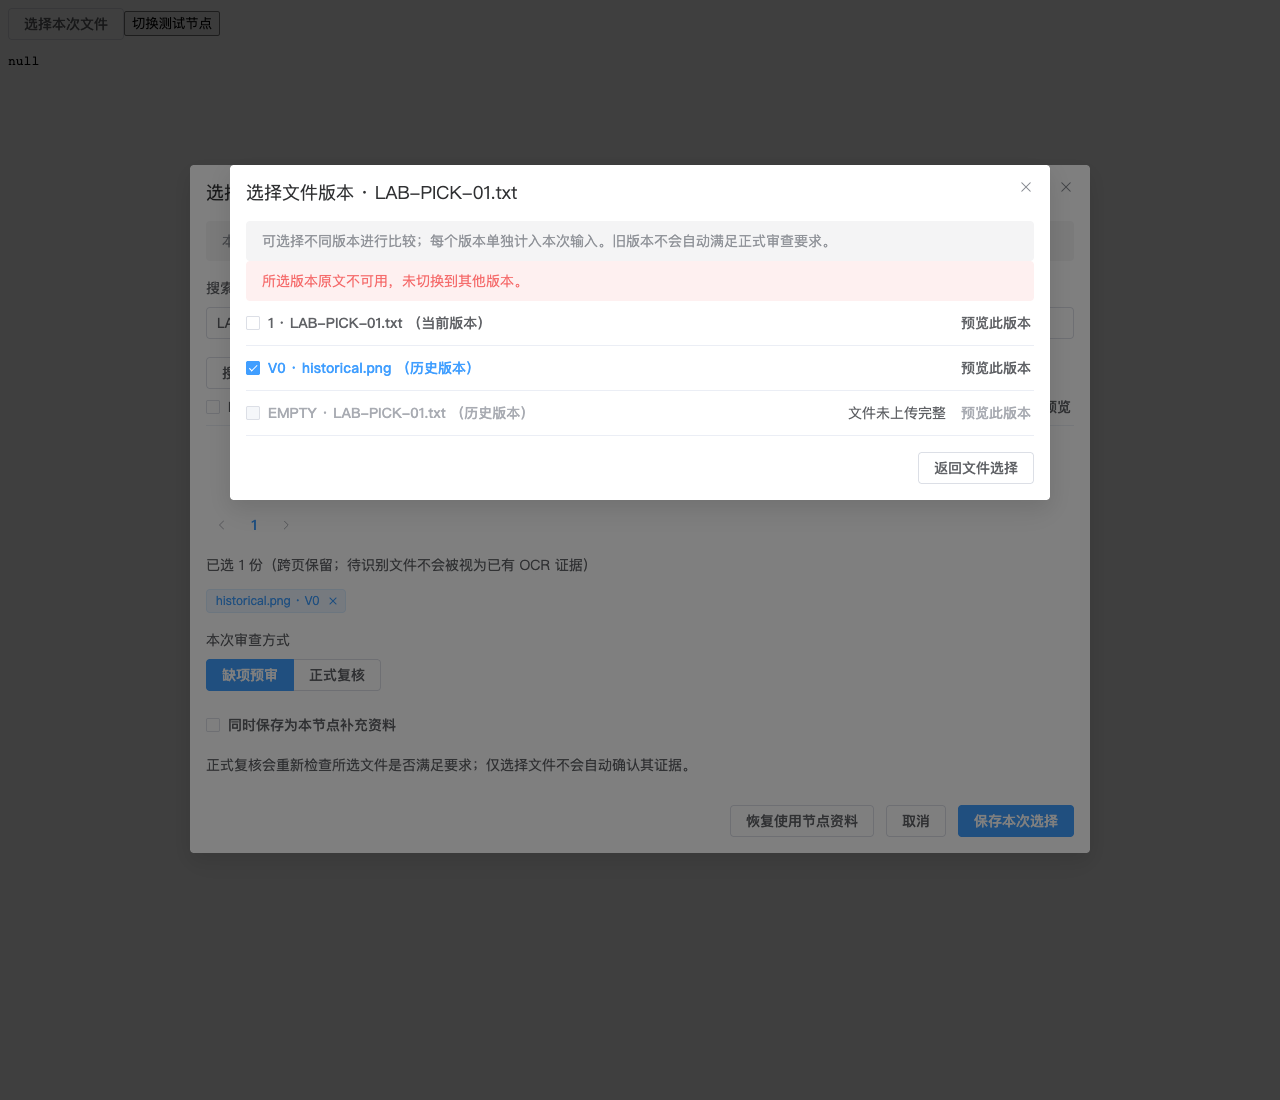
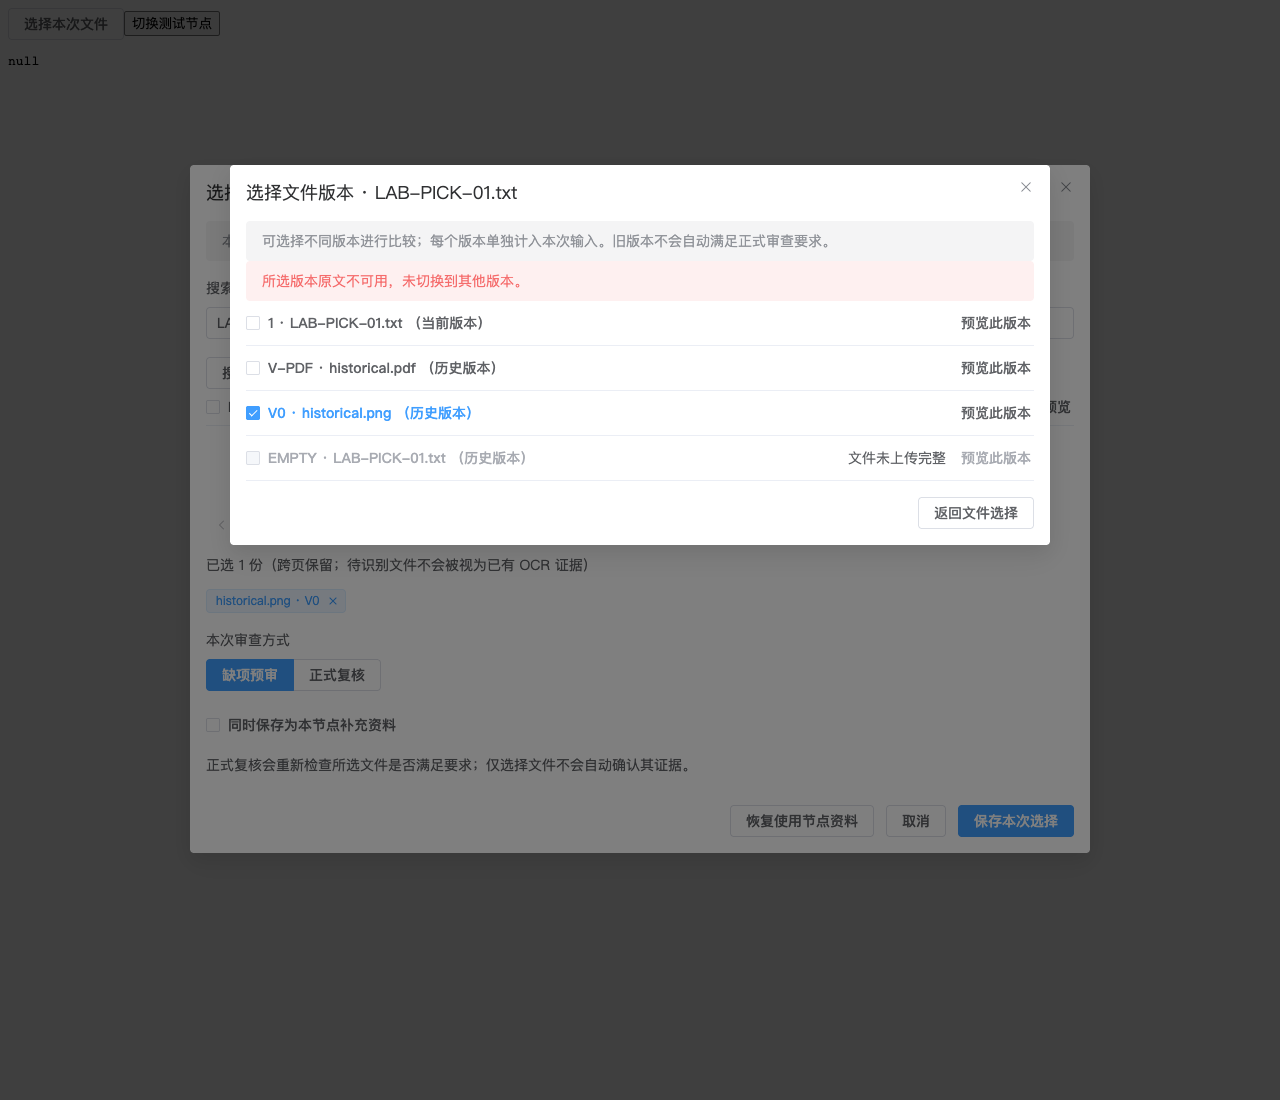
feat(ui): improve narrow version picker and verify historical PDF rendering

Changed region(s): [[0.1562, 0.3709, 0.8438, 0.4945], [0.1875, 0.3091, 0.375, 0.34]]

diff --git a/frontend/src/views/AIReviewB/ReviewDocumentVersions.vue b/frontend/src/views/AIReviewB/ReviewDocumentVersions.vue
@@ -13,12 +13,14 @@ const props = defineProps<{
 const emit = defineEmits<{ close: []; toggle: [version: DocumentVersion, checked: boolean] }>()
 const versions = ref<DocumentVersion[]>([])
 const loading = ref(false)
+const previewingId = ref('')
 const error = ref('')
 const preview = ref<{ url: string; type: string; label: string } | null>(null)
 let generation = 0
 let previewAttempt = 0
 const clearPreview = () => {
   previewAttempt++
+  previewingId.value = ''
   if (preview.value) URL.revokeObjectURL(preview.value.url)
   preview.value = null
 }
@@ -32,6 +34,7 @@ const previewVersion = async (version: DocumentVersion) => {
   const context = generation
   const attempt = previewAttempt
   error.value = ''
+  previewingId.value = version.id
   try {
     const blob = await getReviewVersionOriginal(props.projectId, props.documentId, version.id)
     if (context !== generation || attempt !== previewAttempt) return
@@ -47,6 +50,8 @@ const previewVersion = async (version: DocumentVersion) => {
   } catch {
     if (context === generation && attempt === previewAttempt)
       error.value = '所选版本原文不可用，未切换到其他版本。'
+  } finally {
+    if (context === generation && attempt === previewAttempt) previewingId.value = ''
   }
 }
 watch(
@@ -102,7 +107,11 @@ onBeforeUnmount(() => {
           {{ version.isCurrent ? '（当前版本）' : '（历史版本）' }}
         </ElCheckbox>
         <span v-if="!version.hash">文件未上传完整</span>
-        <ElButton link :disabled="!version.hash" @click="previewVersion(version)"
+        <ElButton
+          link
+          :loading="previewingId === version.id"
+          :disabled="!version.hash"
+          @click="previewVersion(version)"
           >预览此版本</ElButton
         >
       </div>
@@ -160,5 +169,23 @@ onBeforeUnmount(() => {
   max-width: 100%;
   max-height: 65vh;
   object-fit: contain;
+}
+
+@media (width <= 600px) {
+  .version-row {
+    display: grid;
+    grid-template-columns: 1fr auto;
+    gap: 4px 12px;
+  }
+
+  .version-row .el-checkbox {
+    min-height: 44px;
+    grid-column: 1 / -1;
+  }
+
+  .version-row .el-button {
+    min-height: 44px;
+    grid-column: 2;
+  }
 }
 </style>

diff --git a/frontend/e2e/lab-rules/backend.py b/frontend/e2e/lab-rules/backend.py
@@ -41,7 +41,17 @@ originals = tempfile.TemporaryDirectory(prefix="aicheck-version-browser-")
 routes.WORKSPACE_ROOT = Path(originals.name)
 (Path(originals.name) / "historical.png").write_bytes(base64.b64decode(
[1 lines of base64/hex data omitted]
+import fitz
+with fitz.open() as pdf:
+    for page_number in (1, 2):
+        page = pdf.new_page(width=420, height=300)
+        page.insert_text((30, 70), f"HISTORICAL PDF - PAGE {page_number}", fontsize=20)
+        page.insert_text((30, 115), "Version V-PDF: fixed review input", fontsize=14)
+    pdf.save(Path(originals.name) / "historical.pdf")
 repo.state["versions"].extend([
+    {"id": "VER-PICK-1-PDF", "documentId": "DOC-PICK-1", "tenantId": "TENANT-DEFAULT", "versionNo": "V-PDF",
+     "fileName": "historical.pdf", "fileType": "application/pdf", "hash": "historical-pdf-fixture", "isCurrent": False,
+     "storageKey": "local://historical.pdf"},
     {"id": "VER-PICK-1-OLD", "documentId": "DOC-PICK-1", "tenantId": "TENANT-DEFAULT", "versionNo": "V0",
      "fileName": "historical.png", "fileType": "image/png", "hash": "historical-fixture", "isCurrent": False,
      "storageKey": "local://historical.png"},

diff --git a/docs/优化计划-焊接节点.md b/docs/优化计划-焊接节点.md
@@ -955,3 +955,12 @@ W1 之外已顺手完成：P9 R2 的 opinionSource 字段；F1 的 AI_FEEDBACK_R
 - 實際 API 回歸 5 passed，包括目前版本已上傳但所選舊版未上傳、dangling currentVersionId、版本租戶不符，以及合法舊版從請求進入審查和證據快照。原明確選取夾具補上傳完成 hash，未放寬產品校驗。
 - 文件範圍／證據快照／manifest／分片／組織隔離／巨石回歸 184 passed；Ruff 289 / 289、diff check 通過。本批未重跑完整後端或瀏覽器。
 - hash 是沿用系統既有上傳完成標記，不代表本批逐次讀取物件儲存驗證檔案仍存在；完整歷史重放、PDF／手機／登入工作台及其他工作包仍待完成。無生產部署。
+
+
+### 2026-09-09 歷史 PDF 與窄螢幕驗收
+
+- 本地夾具新增具兩頁識別文字的實際歷史 PDF。Chrome 真實 API／Blob 請求取得 PDF，內建閱讀器載入 docLength=2；已檢視 1280px 與 390px 的頁面內容截圖，確實顯示歷史版本兩頁，不只檢查 iframe 存在。
+- 新腳本 check-version-pdf-mobile.mjs 在兩種寬度驗證版本選取、PDF 原文格式、兩頁載入、預覽對話框界限、返回與保存固定版本；版本列無水平溢出。既有歷史圖片／原文不可用／選取保留腳本亦通過。
+- 窄螢幕原先狀態文字擠壓檔名，現將版本標籤獨立一列、狀態與預覽動作放下一列，勾選和預覽操作最小高度 44px。原文請求增加載入指示，過期回應不清除新請求的載入狀態。
+- 全量 vue-tsc、修改檔 ESLint／Stylelint、diff check 通過。截圖 version-list-390.png、version-pdf-390.png、version-pdf-1280.png 已檢視；測試橋接沿用隔離記憶體資料與临時原文，服務已停止。
+- 此為桌面 Chrome 的 390px 視窗模擬，不代表實體手機、Safari 或完整登入工作台驗收；大型檔案、頁碼範圍、歷史重放與其餘工作包仍待完成。本批未重跑完整後端或前端全部單元測試，無生產操作。

diff --git a/docs/lab/README.md b/docs/lab/README.md
@@ -410,3 +410,12 @@ cd backend
 - 實際 API 回歸 5 passed，包括目前版本已上傳但所選舊版未上傳、dangling currentVersionId、版本租戶不符，以及合法舊版從請求進入審查和證據快照。原明確選取夾具補上傳完成 hash，未放寬產品校驗。
 - 文件範圍／證據快照／manifest／分片／組織隔離／巨石回歸 184 passed；Ruff 289 / 289、diff check 通過。本批未重跑完整後端或瀏覽器。
 - hash 是沿用系統既有上傳完成標記，不代表本批逐次讀取物件儲存驗證檔案仍存在；完整歷史重放、PDF／手機／登入工作台及其他工作包仍待完成。無生產部署。
+
+
+### 2026-09-09 歷史 PDF 與窄螢幕驗收
+
+- 本地夾具新增具兩頁識別文字的實際歷史 PDF。Chrome 真實 API／Blob 請求取得 PDF，內建閱讀器載入 docLength=2；已檢視 1280px 與 390px 的頁面內容截圖，確實顯示歷史版本兩頁，不只檢查 iframe 存在。
+- 新腳本 check-version-pdf-mobile.mjs 在兩種寬度驗證版本選取、PDF 原文格式、兩頁載入、預覽對話框界限、返回與保存固定版本；版本列無水平溢出。既有歷史圖片／原文不可用／選取保留腳本亦通過。
+- 窄螢幕原先狀態文字擠壓檔名，現將版本標籤獨立一列、狀態與預覽動作放下一列，勾選和預覽操作最小高度 44px。原文請求增加載入指示，過期回應不清除新請求的載入狀態。
+- 全量 vue-tsc、修改檔 ESLint／Stylelint、diff check 通過。截圖 version-list-390.png、version-pdf-390.png、version-pdf-1280.png 已檢視；測試橋接沿用隔離記憶體資料與临時原文，服務已停止。
+- 此為桌面 Chrome 的 390px 視窗模擬，不代表實體手機、Safari 或完整登入工作台驗收；大型檔案、頁碼範圍、歷史重放與其餘工作包仍待完成。本批未重跑完整後端或前端全部單元測試，無生產操作。

diff --git a/frontend/e2e/lab-rules/README.md b/frontend/e2e/lab-rules/README.md
@@ -42,3 +42,5 @@ CSS regression probe, not a logged-in workbench acceptance test.
 掛載腳本亦驗證整頁重新載入後重新選取相同版本，使用新操作編號仍沿用原掛載 ID；不代表多服務程序並行寫入驗收。
 
 歷史版本驗收：`node e2e/lab-rules/check-document-versions.mjs`。使用真實版本列表／original API 與臨時 PNG 夾具，驗證固定舊版、圖片解碼、空本體停用、原文缺失提示及保存保留。橋接按真實 Content-Type 傳回 Blob；不代表 PDF、完整登入或大型檔案驗收。
+
+PDF／窄螢幕：`node e2e/lab-rules/check-version-pdf-mobile.mjs`。以 1280px／390px Chrome 視窗驗證真實兩頁 PDF 的 Blob、內建閱讀器頁數及選取保存。依賴測試環境 PyMuPDF 產生臨時 PDF；Chrome 內建閱讀器 DOM 改版可能需調整檢查。此為視窗模擬，不是實體手機 Safari 驗收。
